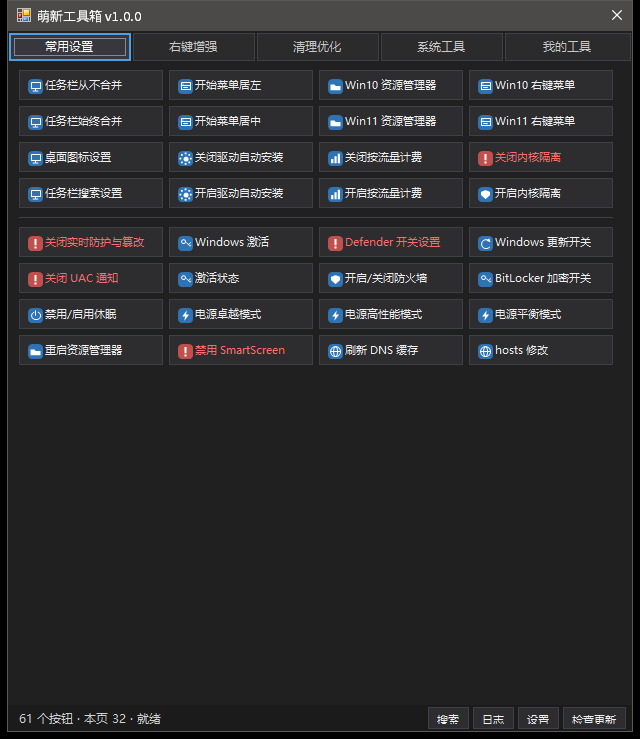
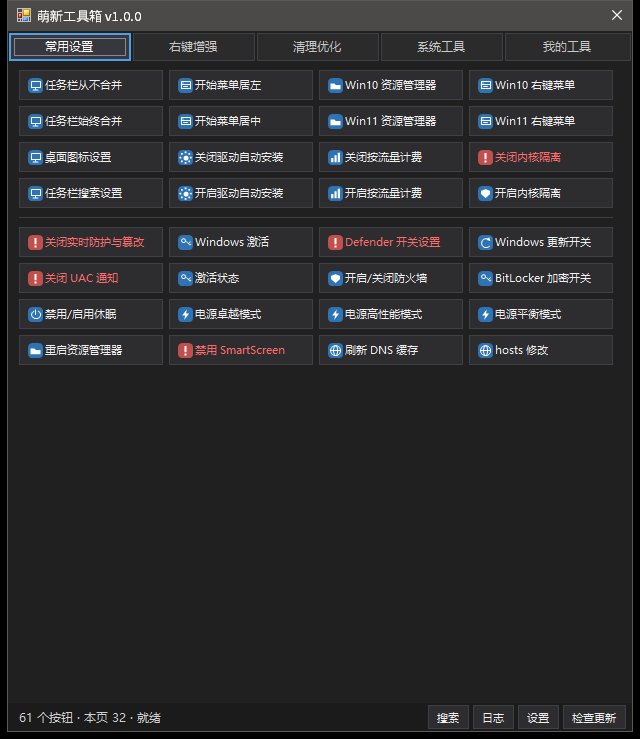
修复底栏文字被裁一行 + 按钮图标没有上下居中
用户报的两个问题，都是先用 PrintWindow 抓渲染像素量过以后才动代码的。

1) 底栏按钮"差一点才显示全文字"（主要是高度问题）：
   Flat 按钮除 1px 边框外还有约 3px 内边距，文字实际只能画在「高度 - 8」里。
   按「行高 + 6」算出来的 22px 只给文字 14px，最后一行字形被下边缘裁掉。
   实测证据：底栏「检查更新」渲染出来只有 9 行墨迹，按钮墙上同字号的按钮有 10 行。
   改成「行高 + 8」= 24px（底栏 28px），四个底栏按钮现在都是 10 行。

2) 按钮图标没有上下居中：
   WinForms 的 Flat 按钮把图片画在文字行框中心往下 1px 的位置，
   16px 高的画布因此比按钮中心低（实测画布 8..23、墨迹 9..23 中心 16.0，
   按钮中心 14.5，同一按钮的文字中心恰好 14.5）。
   用 Padding 调不动这个偏差 —— 它会把图标和文字一起挪（每 1px 底边距抬 1px）。
   改成 IconFactory.Normalize() 把所有来源（内嵌 PNG / 外部 PNG / 实时绘制 / 转圈）
   统一成 16x15 画布：首行整行透明时砍掉首行（等于把图案抬 1px），
   首行有墨迹的图改取 0..14 行，不切墨迹。实测墨迹 8..22、中心 15.0，误差 0.5px
   （整数画布下能做到的极限，因为生成的图标墨迹本身在自己的 16px 源图里就低 0.5px）。

回归检查 +3（界面回归 44 -> 47，合计 73）：
  B09  图标墨迹中心与按钮中心之差 <= 1px（PrintWindow 抓像素 + 亮度/饱和度分离图标与文字）
  B09b 按钮文字墨迹行数 >= 10
  D01e 底栏墨迹行数必须和按钮墙一致（不看高度公式，只看渲染结果）；D01c 阈值 20 -> 24px

配套：docs/DESIGN.md（§3 尺寸更新 + §12 新增第 8/9/11/12 条坑：按钮高度公式、
图标不是画在中心、改完要看 BOM、PS 里别按像素调函数）、CHANGELOG、README、
skill 两处同步、重新拍 docs 两张截图。

diff --git a/src/IconFactory.cs b/src/IconFactory.cs
@@ -16,6 +16,9 @@ namespace Mxx1Toolbox
     {
         private static readonly Dictionary<string, Image> Cache = new Dictionary<string, Image>(StringComparer.OrdinalIgnoreCase);
         private static readonly object Gate = new object();
+        private const int IconWidth = 16;
+        private const int SourceHeight = 16;   // every source is normalised to 16x16 first
+        private const int IconHeight = 15;     // ... and then trimmed, see Normalize
 
         private static readonly Color[] Palette = new Color[]
         {
@@ -38,7 +41,7 @@ namespace Mxx1Toolbox
                 if (Cache.TryGetValue(tool.Id, out cached)) { return cached; }
                 Image img = LoadEmbedded(tool);
                 if (img == null) { img = LoadPng(tool.IconPath); }
-                if (img == null) { img = DrawFallback(tool); }
+                if (img == null) { img = Normalize(DrawFallback(tool)); }
                 Cache[tool.Id] = img;
                 return img;
             }
@@ -56,7 +59,7 @@ namespace Mxx1Toolbox
                 using (Stream s = asm.GetManifestResourceStream("icons." + tool.Id + ".png"))
                 {
                     if (s == null) { return null; }
-                    return Resize16(Image.FromStream(s));
+                    return Normalize(Image.FromStream(s));
                 }
             }
             catch
@@ -65,27 +68,62 @@ namespace Mxx1Toolbox
             }
         }
 
-        private static Image Resize16(Image raw)
+        /// <summary>Normalises a raw source image to the button icon canvas: 16 wide, 15 tall,
+        /// with the drawing on the top rows.
+        ///
+        /// A flat button paints its image one pixel below the centre of the label's line box, so a
+        /// 16px tall canvas lands one pixel lower than the button centre. Measured on the rendered
+        /// window (30px button, 8.25pt label): the canvas sat on rows 8..23 -- centre 15.5 against a
+        /// button centre of 14.5 -- and the ink on rows 9..23, centre 16.0, while the label itself
+        /// sat on the centre exactly. Every icon we generate has a fully transparent top row, so
+        /// dropping that row lifts the drawing onto the label's centre: measured again afterwards,
+        /// the ink covers rows 8..22, centre 15.0, within half a pixel of the button centre (the
+        /// best an integer canvas can do, because the generated ink is itself half a pixel low
+        /// inside its 16px source). The busy spinner goes through here too, so it is exactly as tall
+        /// as the icon it replaces and swapping it in cannot move anything.
+        ///
+        /// A source that already paints into its top row is never trimmed at the top (that would
+        /// cut ink) -- rows 0..14 are taken instead, which lands on the same canvas.</summary>
+        private static Image Normalize(Image raw)
         {
-            Bitmap bmp = new Bitmap(16, 16);
-            using (Graphics g = Graphics.FromImage(bmp))
+            if (raw == null) { return null; }
+            Bitmap full = new Bitmap(IconWidth, SourceHeight);
+            using (Graphics g = Graphics.FromImage(full))
             {
                 g.InterpolationMode = InterpolationMode.HighQualityBicubic;
-                g.DrawImage(raw, new Rectangle(0, 0, 16, 16));
+                g.DrawImage(raw, new Rectangle(0, 0, IconWidth, SourceHeight));
             }
-            return bmp;
+            int top = IsRowBlank(full, 0) ? 1 : 0;
+            Bitmap canvas = new Bitmap(IconWidth, IconHeight);
+            using (Graphics g = Graphics.FromImage(canvas))
+            {
+                g.Clear(Color.Transparent);
+                g.DrawImageUnscaled(full, 0, -top);
+            }
+            full.Dispose();
+            return canvas;
+        }
+
+        private static bool IsRowBlank(Bitmap bmp, int row)
+        {
+            for (int x = 0; x < bmp.Width; x++)
+            {
+                if (bmp.GetPixel(x, row).A > 8) { return false; }
+            }
+            return true;
         }
 
         private static Image _busy;
 
-        /// <summary>A 16x16 spinner shown while a button is running. Same size as every other icon,
-        /// so swapping it in does not move the icon or the label by a single pixel.</summary>
+        /// <summary>A spinner shown while a button is running. It goes through Normalize like every
+        /// other icon, so it is exactly as tall as the icon it replaces and swapping it in does not
+        /// move the icon or the label by a single pixel.</summary>
         public static Image Busy()
         {
             lock (Gate)
             {
                 if (_busy != null) { return _busy; }
-                Bitmap bmp = new Bitmap(16, 16);
+                Bitmap bmp = new Bitmap(IconWidth, SourceHeight);
                 using (Graphics g = Graphics.FromImage(bmp))
                 {
                     g.SmoothingMode = SmoothingMode.AntiAlias;
@@ -100,7 +138,8 @@ namespace Mxx1Toolbox
                         g.FillEllipse(dot, 6.2f, 6.2f, 3.6f, 3.6f);
                     }
                 }
-                _busy = bmp;
+                _busy = Normalize(bmp);
+                bmp.Dispose();
                 return _busy;
             }
         }
@@ -112,7 +151,7 @@ namespace Mxx1Toolbox
                 if (string.IsNullOrEmpty(path) || !File.Exists(path)) { return null; }
                 using (FileStream fs = new FileStream(path, FileMode.Open, FileAccess.Read, FileShare.ReadWrite))
                 {
-                    return Resize16(Image.FromStream(fs));
+                    return Normalize(Image.FromStream(fs));
                 }
             }
             catch

diff --git a/src/MainForm.cs b/src/MainForm.cs
@@ -83,7 +83,13 @@ namespace Mxx1Toolbox
             _cellWidth = ComputeCellWidth();
             using (Font barFont = new Font("Microsoft YaHei", 8.25f, FontStyle.Regular, GraphicsUnit.Point))
             {
-                _barButtonHeight = Math.Max(20, TextRenderer.MeasureText("国", barFont).Height + 6);
+                // One line of 8.25pt text measures 16px, but a flat button also reserves its 1px
+                // border plus about 3px of internal padding on each side: the label is drawn in
+                // height - 8. So a 22px button gives the glyph 14px and the bottom row of every
+                // bar label was cut off -- measured on the rendered window, "检查更新" came out
+                // with 9 ink rows instead of the 10 a grid button shows (tests\Test-Gui.ps1 D01e).
+                _barButtonHeight = TextRenderer.MeasureText("国", barFont).Height + 8;
+                if (_barButtonHeight < 24) { _barButtonHeight = 24; }
             }
             _statusBarHeight = _barButtonHeight + 4;   // 2px margin above and below
             ClientSize = new Size(Math.Max(500, Columns * _cellWidth + 24), 700);

diff --git a/src/ToolButton.cs b/src/ToolButton.cs
@@ -6,7 +6,8 @@ using System.Windows.Forms;
 
 namespace Mxx1Toolbox
 {
-    /// <summary>One compact button of the wall: 16x16 PNG icon plus a plain text label.</summary>
+    /// <summary>One compact button of the wall: a 16x15 icon canvas (see IconFactory.Normalize,
+    /// which exists so the icon lands on the label's optical centre) plus a plain text label.</summary>
     internal sealed class ToolButton : Button
     {
         public readonly ToolItem Tool;

diff --git a/docs/DESIGN.md b/docs/DESIGN.md
@@ -19,14 +19,14 @@
 | --- | --- | --- |
 | 1 | 工程形态 | 独立新程序 `toolbox\`，独立 Git 仓库（本地 + GitHub 远程；**推送前先问用户**） |
 | 2 | 右键功能集成 | 调现成 `PermanentDeleteSetup.exe` 的 CLI，零改动、不重写删除逻辑 |
-| 3 | 图标 | 61 个 16×16 PNG（`tools\Make-Icons.ps1` 生成，按页签配色 + 按名字选图形）编译时内嵌为 `icons.<id>.png`；显式 `icon` 字段 > `assets\icons\<id>.png` > 内嵌 > 实时画的占位图标 |
+| 3 | 图标 | 61 个 16×16 PNG（`tools\Make-Icons.ps1` 生成，按页签配色 + 按名字选图形）编译时内嵌为 `icons.<id>.png`；显式 `icon` 字段 > `assets\icons\<id>.png` > 内嵌 > 实时画的占位图标。不管来源，一律经 `IconFactory.Normalize()` 归一化到 **16×15 画布**（原因见 §12 第 9 条） |
 | 4 | 主题 | 默认**浅色**，可切**深色**，可**跟随系统**（`WM_SETTINGCHANGE` / `UserPreferenceChanged` 自动切） |
-| 5 | 外观 | **A 型 · 紧凑小按钮**：四列纯文字按钮 + 左侧 16×16 图标 |
+| 5 | 外观 | **A 型 · 紧凑小按钮**：四列纯文字按钮 + 左侧 16×16 图标（渲染画布 16×15，原因见 §12 第 9 条） |
 | 6 | 按钮功能 | P0 只有「右键增强」是真功能；其余是 `placeholder`，点击走状态栏 + 日志提示 |
 | 7 | 占位点击表现 | 状态栏 `XXX · 功能待接入（P1）` + 写一条日志，按钮灰 0.6 秒；**不弹窗** |
 | 8 | 「推荐」红框 | 不做（那是别人截图时画的） |
 | 9 | 页签 | `常用设置` / `右键增强` / `清理优化` / `系统工具` / `我的工具` |
-| 10 | 底部条 | **高度按字体算**（当前 26px = 按钮 22px + 上下各 2px）：`N 个按钮 · 本页 M · 状态文字` + `[搜索] [日志] [设置] [检查更新]`。状态文字**只放短摘要**（完整内容进日志 + 悬停提示），因为标签宽度固定，长句会被截 |
+| 10 | 底部条 | **高度按字体算**（当前 28px = 按钮 24px + 上下各 2px；24 = 文字行 16 + 边框与内边距 8，见 §12 第 8 条）：`N 个按钮 · 本页 M · 状态文字` + `[搜索] [日志] [设置] [检查更新]`。状态文字**只放短摘要**（完整内容进日志 + 悬停提示），因为标签宽度固定，长句会被截 |
 | 11 | 高 DPI | **System DPI aware（`dpiAware=true`）+ `AutoScaleMode.Font`**。不用 PerMonitorV2：它要靠 app.config 开关，而 exe.config 会破坏"单文件"。列宽在运行时按最长按钮名测量，所以换 DPI / 换字号都不会截断文字 |
 | 12 | 按钮来源 | 全部由 `tools\*.json` 驱动（内嵌 5 个 + 用户层覆盖） |
 
@@ -48,16 +48,16 @@
 
 | 元素 | 实现 |
 | --- | --- |
-| 窗口 | 高度默认 700；**宽度 = 4 × 列宽 + 24**（当前列宽 148 → 窗口 640，客户区 624）；最小 460×520；可缩放；`MinimizeBox=false`、`MaximizeBox=false` |
+| 窗口 | 高度默认 700；**宽度 = 4 × 列宽 + 24**（`ComputeCellWidth()` 当前算出 154 → 窗口 640，客户区 624）；最小 460×520；可缩放；`MinimizeBox=false`、`MaximizeBox=false` |
 | 页签行 | 高 30px，5 个 `Flat` 按钮等宽（**不用 `TabControl`**，深色下不可控）；选中页签白底/深底 + 蓝边框 |
-| 列宽 | `ComputeCellWidth()`：用 8.25pt 微软雅黑量出**最长按钮名**，加 36px（图标 16 + 图文间距 + 内边距 + 余量）再加 8px 间距，钳在 104…170 |
-| 按钮 | 列宽 − 8 = 当前 **140×30**，`Margin=3`，字号 **8.25pt**，左 16×16 图标，`AutoEllipsis=true` 兜底 |
+| 列宽 | `ComputeCellWidth()`：用 8.25pt 微软雅黑量出**最长按钮名**，加 36px（图标 16 + 图文间距 + 内边距 + 余量）再加 8px 间距，钳在 104…170。网格是 `AutoSize` 的，实际渲染出来列间距 150、按钮 144×30 |
+| 按钮 | **实测 144×30**（列间距 150 − 两边各 3px 外边距），字号 **8.25pt**，左 16×15 图标，`AutoEllipsis=true` 兜底 |
 | 网格 | `TableLayoutPanel`，**4 个绝对列（列宽 = 上面的列宽）+ 1 个 100% 的空列**（吃掉多余宽度），行高 36 |
 | 段分隔线 | `Panel` 高 1px，`ColumnSpan=4`，`Margin=(3,6,3,6)`，占一行 13px |
 | 内容区 | 每个页签一个 `Panel(AutoScroll=true)`，里面套 `TableLayoutPanel(Dock=Top, AutoSize)` |
 | 搜索行 | 默认隐藏（行高 0），点 `[搜索]` 展开 28px，输入即筛当前页 |
 | 日志面板 | 默认收起（行高 0），展开 170px；字号 Consolas 8.25pt；`HH:mm:ss  按钮名  内容`，**最新在最上面** |
-| 底部条 | 高 `_statusBarHeight`（= 按钮高 + 4，当前 26px）；左 `Label`（AutoEllipsis），右 4 个 `AutoSize=false` 的按钮：**高度按字体算**（`MeasureText("国").Height + 6` = 22px），宽度按文字量 |
+| 底部条 | 高 `_statusBarHeight`（= 按钮高 + 4，当前 28px）；左 `Label`（AutoEllipsis），右 4 个 `AutoSize=false` 的按钮：**高度按字体算**（`MeasureText("国").Height + 8` = 24px，`+8` 的来历见 §12 第 8 条），宽度按文字量 |
 | 窗口布局 | 用一个 5 行 `TableLayoutPanel`（页签 / 搜索 / 网格 / 日志 / 底栏）—— 完全不手写坐标 |
 
 ### 配色
@@ -219,14 +219,15 @@ CLI：`list [--tab <id>]` / `run <id> [--admin]` / `status` / `checkupdate` / `h
 
 ## 11 验收标准（当前全部满足）
 
-- `build.ps1` 一次通过，产出单文件 `bin\Mxx1Toolbox.exe`（108,544 字节，含 61 个内嵌图标），无警告
+- `build.ps1` 一次通过，产出单文件 `bin\Mxx1Toolbox.exe`（约 107 KB，含 61 个内嵌图标），无警告
 - `tools\Test-Encoding.ps1` 全绿（102 个文件）
 - `tests\Test-Cli.ps1` **26/26**：中文不乱码、按钮数 61、页签分布 32/8/8/12/1、占位按钮写日志、
   真按钮能读到隔壁引擎的 `installed=`、错误用法退出码 2
-- `tests\Test-Gui.ps1` **44/44**：标题栏无最小化/最大化方框、窗口可缩放、四列八行、
-  **按钮尺寸完全一致**、**零重叠**、五个页签切换后按钮数正确、搜索/日志面板开合、
+- `tests\Test-Gui.ps1` **47/47**：标题栏无最小化/最大化方框、窗口可缩放、四列八行、
+  **按钮尺寸完全一致**、**零重叠**、**文字没被裁（按渲染墨迹行数）**、**图标上下居中（误差 ≤ 1px）**、
+  五个页签切换后按钮数正确、搜索/日志面板开合、
   真点占位按钮后日志多一行、危险按钮弹「确认执行」并能取消、深色主题正常
-- `tests\Test-All.ps1` 合计 **70 项全绿**
+- `tests\Test-All.ps1` 合计 **73 项全绿**（命令行 26 + 界面 47，外加编码体检）
 - 截图：`docs\gui-shot.png`（浅色 640×739）、`docs\dark-shot.png`（深色）
 
 ## 12 实现期间踩到并修掉的坑（别再踩）
@@ -248,10 +249,29 @@ CLI：`list [--tab <id>]` / `run <id> [--admin]` / `status` / `checkupdate` / `h
 7. **状态栏文字必须放得下**：原来拼的是 `共 N 个按钮（本页 M） · 按钮名 · 完成：xxx 退出码 0`，
    实测 414px 塞进 392px 的标签 → 尾巴被截。改成短摘要 `N 个按钮 · 本页 M · 名字 · 完成`（最长 262px），
    完整内容进日志 + 标签悬停提示。检查：B06b（按钮文字不溢出）、D01d/E07（状态文字不溢出）。
-8. **按钮写死高度会裁掉文字**：底栏按钮原来是 `AutoSize=false` + 高 20px，而 8.25pt 一行字就要 16px，
-   加上 1px 边框和基线间距直接装不下 —— 用户看到"右下角按钮没正常显示、被挡住"。
-   修法：高度按字体算（`TextRenderer.MeasureText("国", font).Height + 6`），底栏高 = 按钮高 + 4，
-   并加回归检查 D01b/D01c（子控件必须完全落在父容器内 + 按钮高度不小于 20px）。
-6. **PowerShell 数组的坑（本仓库踩过两次）**：`@(@('a','b'))` 传给函数会被解包成 `@('a','b')`，
-   于是 `$p[0]` 取到的是**字符**而不是字符串 —— 用 `Replace` 批量改代码时会把整个文件改烂。
-   脚本里要改文件就用两个平行数组 + 显式下标，或者干脆用编辑器逐个改。
+8. **按钮高度必须按"字体 + 边框 + 内边距"算，不能只按字体算**：底栏按钮写死 20px 时装不下
+   8.25pt 的一行字（用户："右下角按钮没正常显示、被挡住"）；改成 `MeasureText("国").Height + 6` = 22px
+   后**还是差一行**（用户："底部按钮还是差一点的才显示全文字，主要是高度问题"）——
+   因为 Flat 按钮除 1px 边框外还有约 3px 内边距，文字实际只能画在「高度 − 8」里，22px 只给到 14px。
+   实测证据：底栏「检查更新」渲染出来只有 9 行墨迹，按钮墙上同字号的按钮有 10 行。
+   最终公式 **`行高 + 8` = 24px（底栏 28px）**。检查：D01b（子控件落在容器内）、D01c（≥ 24px）、
+   **D01e（数渲染出来的墨迹行数，必须和按钮墙一样多 —— 这条才是真正能抓住"被裁"的那个）**。
+9. **WinForms 画图标的位置不等于按钮中心**：`FlatStyle=Flat` 的按钮把图片画在文字行框中心**往下 1px**，
+   所以 16px 高的画布比按钮中心低 1px。实测（`PrintWindow` 抓像素，30px 的按钮）：
+   图标墨迹在 9..23 行、中心 16.0，而按钮中心 14.5 —— 低 1.5px，同一按钮的文字中心恰好 14.5。
+   修法：`IconFactory.Normalize()` 把**所有来源**（内嵌 PNG / 外部 PNG / 实时绘制 / 转圈图标）
+   统一成 **16×15 画布**：首行整行透明时去掉那一行（等于把图案抬 1px），
+   首行有墨迹的图改取 0..14 行（不切墨迹）。实测改完是 8..22、中心 15.0，误差 0.5px
+   （整数画布下能做到的极限）。检查 B09（图标墨迹中心与按钮中心之差 ≤ 1px）。
+   注意：`Padding` 挪不动这个偏差 —— 它把图标和文字**一起**挪（实测每 1px 底边距抬 1px），
+   所以要动的是画布，不是内边距。
+10. **PowerShell 数组的坑（本仓库踩过两次）**：`@(@('a','b'))` 传给函数会被解包成 `@('a','b')`，
+    于是 `$p[0]` 取到的是**字符**而不是字符串 —— 用 `Replace` 批量改代码时会把整个文件改烂。
+    脚本里要改文件就用两个平行数组 + 显式下标，或者干脆用编辑器逐个改。
+11. **改完任何 `.ps1`/`.cs` 都要回头看 BOM**：编辑器（含各种打补丁工具）会静默吃掉 BOM，
+    而 PowerShell 5.1 读无 BOM 的 `.ps1` 会按 GBK 解，中文注释直接变成语法错误
+    （症状：`Missing using directive`、`Unexpected token` 之类莫名其妙的位置）。
+    改完跑一次 `tools\Test-Encoding.ps1 -Fix`。
+12. **PS 里逐像素扫图会慢到假死**：一个 `Get-Pixel` 函数按像素调用，几万次函数调用要几分钟，
+    看起来像"卡住了"（实测被误判过一次）。要在 PS 里量像素就 `LockBits` 取一次 `byte[]`
+    再纯数组循环（`tests\Test-Gui.ps1` 的 `Get-InkRows` 就是这么写的），或者干脆用 csc 编个小工具。

diff --git a/CHANGELOG.md b/CHANGELOG.md
@@ -40,11 +40,12 @@
 - `tools\Make-Screenshots.ps1`：用 `PrintWindow` 拍浅色 / 深色两张文档截图。
 - `tools\Make-Icons.ps1`：按"页签定底色 + 按钮名里的关键词定图形"批量画 61 个 16×16 PNG 图标
   （纯 GDI+ 图元，不依赖字体），危险按钮统一红底感叹号；`build.ps1` 把它们以 `icons.<id>.png` 内嵌进 exe。
-- 测试 **70 项**：命令行回归 26 + 界面回归 44（外加编码体检）。界面回归用 Win32 探针
+- 测试 **73 项**：命令行回归 26 + 界面回归 47（外加编码体检）。界面回归用 Win32 探针
   （枚举子窗口矩形判重叠、读 `GWL_STYLE`、`BM_CLICK` 真点、`WM_GETTEXT` 读文字），
-  按钮清单从 `list` 读，不写死。
+  按钮清单从 `list` 读，不写死；"文字有没有被裁 / 图标有没有居中"这类只能看渲染结果的问题，
+  用 `PrintWindow` 抓像素再按行数墨迹判定（B09 / D01e）。
 
-### 修掉的五个界面 bug（部分是界面回归抓的，部分是用户看出来的）
+### 修掉的七个界面 bug（部分是界面回归抓的，部分是用户看出来的）
 
 - **每一行第 4 个按钮比同排宽 28px**：`Dock=Top` 的 `TableLayoutPanel` 会把多出来的宽度全给最后一列，
   改成末尾加一个占 100% 的空列吃掉余量。
@@ -63,6 +64,19 @@
   完整内容进日志 + 标签悬停提示；底栏按钮内边距也收窄 4px 让标签更宽。
 - **`build.ps1` 遇到 exe 被占用不再失败**：会先把旧 exe 改名成 `Mxx1Toolbox.exe.old-<时分秒>` 再编译，
   **不会去杀掉正在运行的实例**（用户可能正开着界面）。
+- **底栏按钮文字还是差一行（用户报"底部按钮还是差一点的才显示全文字，主要是高度问题"）**：
+  上一次按 `行高 + 6` 算成 22px，但 Flat 按钮除 1px 边框外还留约 3px 内边距 ——
+  文字只能画在「高度 − 8」里，22px 只给到 14px，最后一行字形被下边缘裁掉。
+  实测证据：底栏「检查更新」渲染出来只有 9 行墨迹，而按钮墙上同字号的按钮有 10 行。
+  改成 **`行高 + 8` = 24px（底栏 28px）**，现在四个底栏按钮都是 10 行。
+  回归检查：D01e（数**渲染出来的墨迹行数**，必须和按钮墙一样多，不看高度公式）、D01c 阈值提到 24px。
+- **按钮图标没有上下居中（用户报"按钮的图标没有上下居中"）**：WinForms 的 Flat 按钮把图片画在
+  文字行框中心**往下 1px** 的位置，16px 高的画布因此比按钮中心低 1px（渲染实测：图标墨迹在
+  9..23 行，中心 16.0，而按钮中心是 14.5 —— 低 1.5px；同一按钮的文字中心恰好是 14.5）。
+  改成 `IconFactory` 统一归一化到 **16×15 画布**（首行整行透明时去掉那一行，
+  首行有墨迹的图则取 0..14 行，不会切掉墨迹），转圈图标也走同一条路。
+  实测：图标墨迹 8..22，中心 15.0 = 误差 0.5px（半个像素，整数画布下能做到的极限）。
+  回归检查：B09（图标墨迹中心与按钮中心之差 ≤ 1px）。
 
 ### 已知限制 / 下一步
 

diff --git a/README.md b/README.md
@@ -94,13 +94,15 @@ bin\Mxx1Toolbox.exe help
 powershell -File tools\Test-Encoding.ps1     # 编码红线体检（BOM / 纯 ASCII / 硬编码本机路径）
 powershell -File tests\Test-All.ps1          # 全部（无桌面时加 -SkipGui）
 powershell -File tests\Test-Cli.ps1          # 命令行回归 26 项
-powershell -File tests\Test-Gui.ps1          # 界面回归 44 项（要交互式桌面，无桌面返回 3 = 跳过）
+powershell -File tests\Test-Gui.ps1          # 界面回归 47 项（要交互式桌面，无桌面返回 3 = 跳过）
 powershell -File tools\Make-Screenshots.ps1  # 重新拍 docs 里的截图
 powershell -File tools\Make-Icons.ps1        # 重新生成 61 个 16x16 PNG 图标
 ```
 
 界面回归不看截图：用 Win32 枚举子窗口矩形判"按钮/标签有没有压在一起"、读 `GWL_STYLE` 判标题栏、
 `PostMessage(BM_CLICK)` 真点按钮、`WM_GETTEXT` 跨进程读文字；按钮清单从 `list` 里读，两边必须一致。
+"文字有没有被裁 / 图标有没有上下居中"这类只有渲染结果能判断的问题，用 `PrintWindow` 抓像素、
+按行数墨迹判定（底栏文字 10 行不能少，图标中心与按钮中心之差 ≤ 1px）。
 
 ## 文件位置
 
